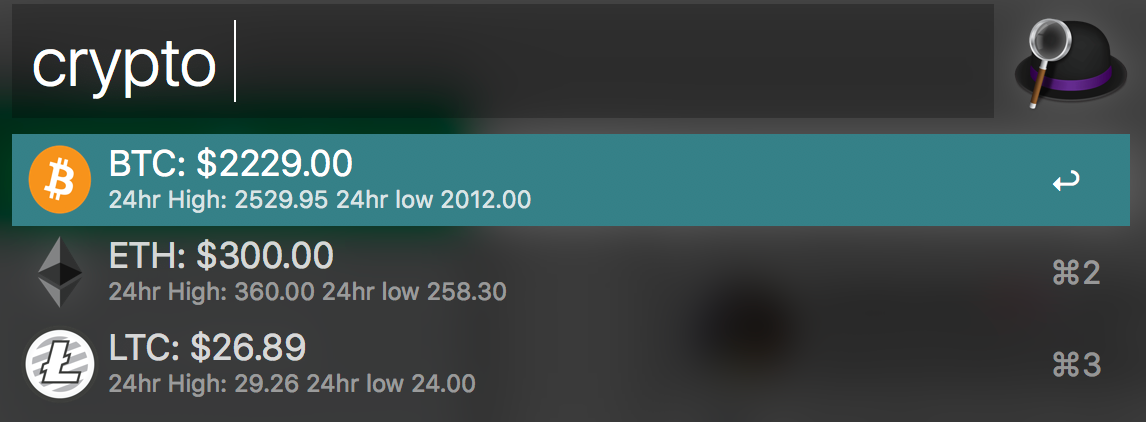
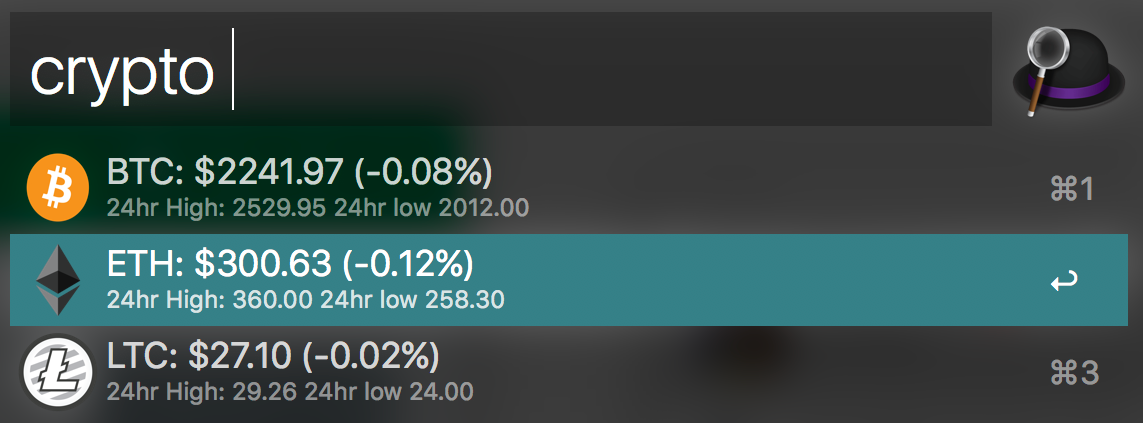
Add % change, update screenshots.

diff --git a/crypto-tracker.py b/crypto-tracker.py
@@ -8,8 +8,10 @@ def format_strings_from_quote(ticker, quote_data):
     last = '%.2f' % float(quote_data[usd_query]['last'])
     high = '%.2f' % float(quote_data[usd_query]['high24hr'])
     low = '%.2f' % float(quote_data[usd_query]['low24hr'])
+    change = '%.2f' % float(quote_data[usd_query]['percentChange'])
+    change = '+' + change if float(change) > 0 else change
     formatted = {}
-    formatted['title'] = ticker.upper() + ': $' + last
+    formatted['title'] = ticker.upper() + ': $' + last + ' (' + change + '%)'
     formatted['subtitle'] = '24hr High: ' + high + ' 24hr low ' + low
     return formatted
 
